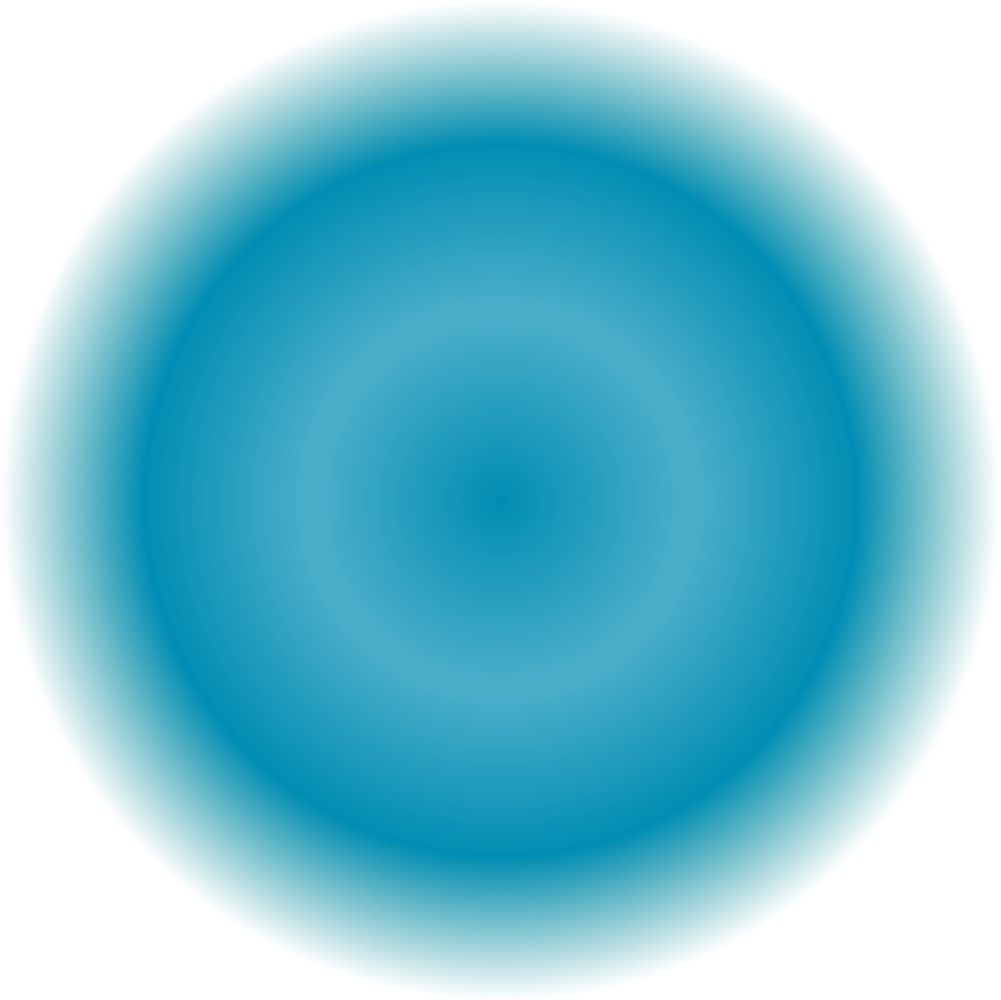
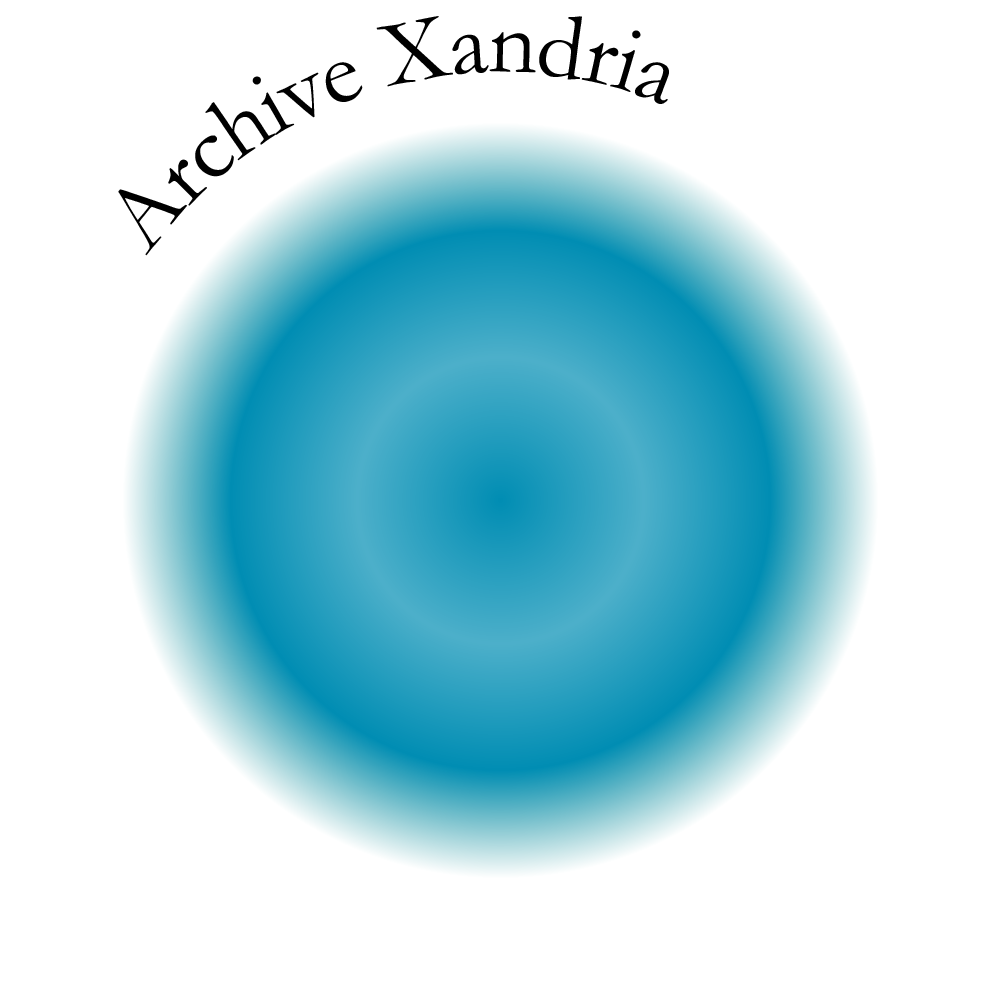
added titles to button imgs

diff --git a/index.html b/index.html
@@ -126,9 +126,9 @@
         >
           <div class="container">
             <img
-              src="img\blue.png"
+              src="img\green.png"
               style="width: 100%"
-              alt="img of a blue button"
+              alt="img of a green button"
             />
             <img class="ring" src="img\ring.png" ; id="ring1" />
           </div>
@@ -172,9 +172,9 @@
           <div class="container">
             <img
               class="pond"
-              src="img\green.png"
+              src="img\coral.png"
               style="width: 100%"
-              alt="img of a green button"
+              alt="img of an orange button"
             />
             <img class="ring" src="img\ring.png" ; id="ring2" />
           </div>
@@ -246,9 +246,9 @@
       >
         <div class="container">
           <img
-            src="img\green.png"
+            src="img\blue.png"
             style="width: 100%"
-            alt="img of a green button"
+            alt="img of a blue button"
           />
           <img class="ring" src="img\ring.png" ; id="ring4" />
         </div>
@@ -296,9 +296,9 @@
       >
         <div class="container">
           <img
-            src="img\blue.png"
+            src="img\teal.png"
             style="width: 100%"
-            alt="img of a blue button"
+            alt="img of a teal button"
           />
           <img class="ring" src="img\ring.png" ; id="ring5" />
         </div>
@@ -316,35 +316,35 @@
     <script>
       /*js for button animations*/
       function growing1() {
-        document.getElementById("ring1").style.scale = "400%";
+        document.getElementById("ring1").style.scale = "350%";
       }
       function shrinking1() {
         document.getElementById("ring1").style.scale = "100%";
       }
 
       function growing2() {
-        document.getElementById("ring2").style.scale = "400%";
+        document.getElementById("ring2").style.scale = "350%";
       }
       function shrinking2() {
         document.getElementById("ring2").style.scale = "100%";
       }
 
       function growing3() {
-        document.getElementById("ring3").style.scale = "400%";
+        document.getElementById("ring3").style.scale = "350%";
       }
       function shrinking3() {
         document.getElementById("ring3").style.scale = "100%";
       }
 
       function growing4() {
-        document.getElementById("ring4").style.scale = "400%";
+        document.getElementById("ring4").style.scale = "350%";
       }
       function shrinking4() {
         document.getElementById("ring4").style.scale = "100%";
       }
 
       function growing5() {
-        document.getElementById("ring5").style.scale = "400%";
+        document.getElementById("ring5").style.scale = "350%";
       }
       function shrinking5() {
         document.getElementById("ring5").style.scale = "100%";
